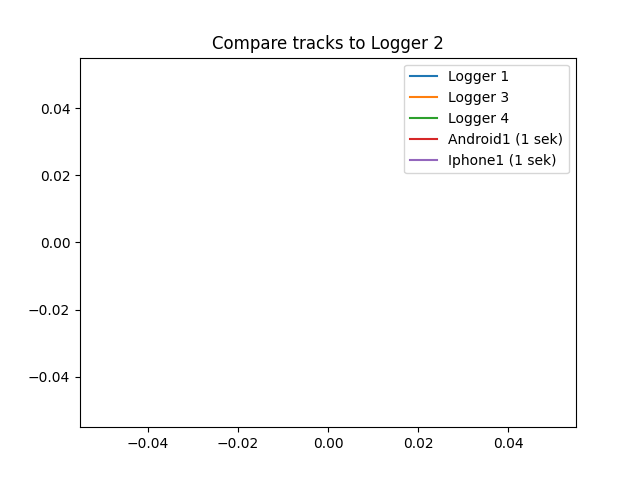
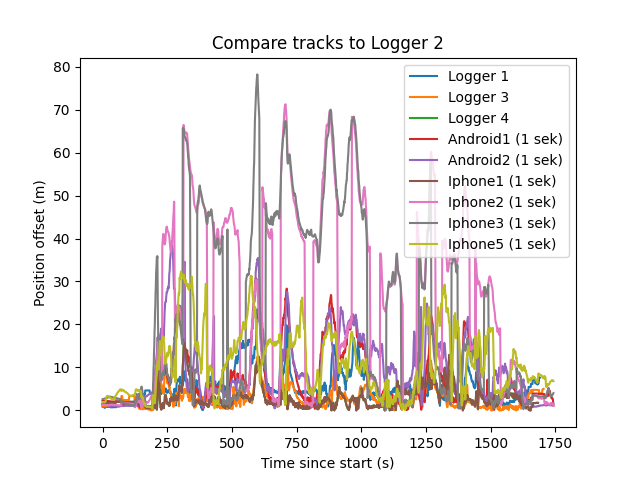
Fix this problem with corridor grace time around corners. Fixes number of decimals in corridor with in flight order.

diff --git a/track_analyser/compare_tracks.py b/track_analyser/compare_tracks.py
@@ -12,30 +12,63 @@ import scipy.stats as st
 def compare_mean_with_confidences(
     truths: List[GPSTrack], tracks: List[GPSTrack], desired_confidence: float, folder: str
 ):
+    compared_to_truth_time={}
     compared_to_truth={}
     for truth_index, truth in enumerate(truths):
         for index, track in enumerate(tracks):
             if truth == track:
                 continue
-            differences = get_track_differences_time(track, truth)
+            differences_time = get_track_differences_time(track, truth)
+            differences = get_track_differences(track, truth)
             try:
+                compared_to_truth_time[track.name].append(differences_time)
                 compared_to_truth[track.name].append(differences)
             except KeyError:
-                compared_to_truth[track.name]=[differences]
+                compared_to_truth_time[track.name]=[differences_time]
+                compared_to_truth[track.name] = [differences]
+    total_confidence_time =np.zeros((2, len(tracks)))
     total_confidence =np.zeros((2, len(tracks)))
+    total_mean_time=[]
     total_mean=[]
     for index, track in enumerate(tracks):
+        differences_time=compared_to_truth_time[track.name]
         differences=compared_to_truth[track.name]
+        total_differences_time=np.concatenate(differences_time)
         total_differences=np.concatenate(differences)
+        confidence_time=st.t.interval(alpha=desired_confidence, df=len(total_differences_time)-1, loc=np.mean(total_differences_time), scale=st.sem(total_differences_time))
         confidence=st.t.interval(alpha=desired_confidence, df=len(total_differences)-1, loc=np.mean(total_differences), scale=st.sem(total_differences))
-        print(confidence)
+        mean_time=np.mean(total_differences_time, axis=0)
         mean=np.mean(total_differences, axis=0)
+        total_mean_time.append(mean_time)
         total_mean.append(mean)
-        total_confidence[:, index]=confidence
+        total_confidence_time[:, index]=confidence_time
+        total_confidence[:, index] = confidence
     fig, ax = plt.subplots()
     plt.title(f"Mean time distance for confidence interval {int(100 * desired_confidence)}%")
     r1 = np.arange(len(tracks))
     plt.ylabel("Time distance (s)")
+    plt.bar(
+        r1,
+        total_mean_time,
+        yerr=total_confidence_time,
+        width=0.5,
+        color="blue",
+        edgecolor="black",
+        capsize=7,
+        label="poacee",
+    )
+    plt.xticks(np.arange(len(tracks)), [item.name for item in tracks], rotation=60)
+    plt.savefig(
+        f"{folder}/mean_confidence_time_bar_{int(100 * desired_confidence)}.png",
+        dpi=100,
+        bbox_inches="tight",
+    )
+    plt.close()
+
+    fig, ax = plt.subplots()
+    plt.title(f"Mean distance for confidence interval {int(100 * desired_confidence)}%")
+    r1 = np.arange(len(tracks))
+    plt.ylabel("Distance (m)")
     plt.bar(
         r1,
         total_mean,
@@ -48,11 +81,12 @@ def compare_mean_with_confidences(
     )
     plt.xticks(np.arange(len(tracks)), [item.name for item in tracks], rotation=60)
     plt.savefig(
-        f"{folder}/mean_confidence_bar_{int(100 * desired_confidence)}.png",
+        f"{folder}/mean_confidence_distance_bar_{int(100 * desired_confidence)}.png",
         dpi=100,
         bbox_inches="tight",
     )
     plt.close()
+
 
 def compare_maximum_confidences(
     truths: List[GPSTrack], tracks: List[GPSTrack], confidence: float, folder: str
@@ -151,6 +185,8 @@ def plot_difference_compared_to_single(
         plt.plot(differences, label=f"{tracks[index1]}")
     plt.title(f"Compare tracks to {truth}")
     ax.legend()
+    plt.ylabel("Position offset (m)")
+    plt.xlabel("Time since start (s)")
     plt.savefig(f"{folder}/track_difference_vs_{truth}.png", dpi=100)
     plt.close()
 

diff --git a/track_analyser/compare_thomlevold_no_bad_phones.py b/track_analyser/compare_thomlevold_no_bad_phones.py
@@ -8,7 +8,7 @@ from track_analyser.compare_tracks import (
 from track_analyser.gps_track import GPSTrack
 from datetime_modulo import datetime
 
-folder = "tracks/thomlevold"
+folder = "tracks/thomlevold_no_bad_phones"
 
 loggers = [
     GPSTrack.load_gpx("Logger 1", f"{folder}/05.gpx"),
@@ -24,8 +24,8 @@ androids = [
 
 iphones = [
     GPSTrack.load_gpx("Iphone1 (1 sek)", f"{folder}/espen.gpx"),
-    GPSTrack.load_gpx("Iphone2 (1 sek)", f"{folder}/andersmagnus.gpx"),
-    GPSTrack.load_gpx("Iphone3 (1 sek)", f"{folder}/hedvig.gpx"),
+    # GPSTrack.load_gpx("Iphone2 (1 sek)", f"{folder}/andersmagnus.gpx"),
+    # GPSTrack.load_gpx("Iphone3 (1 sek)", f"{folder}/hedvig.gpx"),
     # GPSTrack.load_gpx("Iphone4 (5 sek)", f"{folder}/rune.gpx"),
     GPSTrack.load_gpx("Iphone5 (1 sek)", f"{folder}/mikael.gpx"),
 ]
@@ -35,14 +35,14 @@ finish_time = datetime(2022, 6, 4, 15, 0, tzinfo=timezone.utc)
 for tracker in loggers + androids + iphones:
     tracker.clip_track(start_time, finish_time)
 
-compare_mean_with_confidences(loggers, loggers + androids + iphones, 0.95, folder)
+# compare_mean_with_confidences(loggers, loggers + androids + iphones, 0.95, folder)
 # compare_mean_with_confidences(loggers, loggers + androids + iphones, 0.2, folder)
 # compare_mean_with_confidences(androids + iphones, androids + iphones, 0.95, folder)
 # compare_mean_with_confidences(androids + iphones, androids + iphones, 0.2, folder)
 #
 #
 # plot_difference_compared_to_single(loggers[0], loggers + androids + iphones, folder)
-# plot_difference_compared_to_single(loggers[1], loggers + androids + iphones, folder)
+plot_difference_compared_to_single(loggers[1], loggers + androids + iphones, folder)
 # plot_difference_compared_to_single(loggers[2], loggers + androids + iphones, folder)
 # plot_difference_compared_to_single(loggers[3], loggers + androids + iphones, folder)
 #
@@ -52,5 +52,5 @@ compare_mean_with_confidences(loggers, loggers + androids + iphones, 0.95, folde
 #
 # compare_maximum_confidences(loggers, loggers + androids + iphones, 0.99, folder)
 # compare_maximum_confidences(loggers, loggers + androids + iphones, 0.95, folder)
-# compare_maximum_confidences(loggers, loggers + androids + iphones, 0.2, folder)
+compare_maximum_confidences(loggers, loggers + androids + iphones, 0.2, folder)
 # compare_mean_with_confidences(loggers, loggers + androids + iphones, 0.95, folder)

diff --git a/src/display/calculators/anr_corridor_calculator.py b/src/display/calculators/anr_corridor_calculator.py
@@ -130,9 +130,9 @@ class AnrCorridorCalculator(Calculator):
             return
         penalty_gate = previous_gate or gate
         # Reset scoring to start counting again, but this time without grace time since we might be outside
-        outside_time = (position.time - self.crossed_outside_time).total_seconds()
+        # outside_time = (position.time - self.crossed_outside_time).total_seconds()
         # Correct for any remaining grace time if we exited the corridor immediately before the gate
-        self.corridor_grace_time = max(0, self.corridor_grace_time - outside_time)
+        # self.corridor_grace_time = max(0, self.corridor_grace_time - outside_time)
         if position == self.last_gate_missed_position:
             # If we are at the same position as the last missed the gate it means that we are missing several gates
             # in a row. We need to apply maximum penalty for each leg
@@ -194,6 +194,10 @@ class AnrCorridorCalculator(Calculator):
                                   position.latitude, position.longitude,
                                   "information", f"entering_corridor")
                 self.corridor_grace_time = self.scorecard.corridor_grace_time
+            else:
+                # Correct for any remaining grace time if we exited the corridor immediately before the gate
+                self.corridor_grace_time = max(0, self.corridor_grace_time - outside_time)
+
             self.existing_reference = None
             self.accumulated_score = 0
 
@@ -220,4 +224,8 @@ class AnrCorridorCalculator(Calculator):
                 "{} {}: Back inside the corridor".format(self.contestant, position.time))
             self.corridor_state = self.INSIDE_CORRIDOR
             self.check_and_apply_outside_penalty(position, last_gate)
+            self.corridor_grace_time = self.scorecard.corridor_grace_time
+            self.crossed_outside_position = None
+            self.crossed_outside_time = None
+
         self.previous_last_gate = last_gate

diff --git a/src/display/models.py b/src/display/models.py
@@ -1419,7 +1419,7 @@ gives a penalty of {scorecard.backtracking_penalty} points.
 
     def _anr_rule_description(self):
         scorecard = self.navigation_task.scorecard
-        text = f"""For this task the corridor width is {"{:.1f}".format(self.navigation_task.route.corridor_width)} nm. 
+        text = f"""For this task the corridor width is {"{:.2f}".format(self.navigation_task.route.corridor_width)} nm. 
 Flying outside of the corridor more than {scorecard.corridor_grace_time} seconds gives a penalty of 
 {"{:.0f}".format(scorecard.corridor_outside_penalty)} point(s) per second."""
         if scorecard.corridor_maximum_penalty != -1:

diff --git a/src/display/calculators/gatekeeper.py b/src/display/calculators/gatekeeper.py
@@ -169,7 +169,7 @@ class Gatekeeper(ABC):
         device_ids = self.traccar.get_device_ids_for_contestant(self.contestant)
         current_time = datetime.datetime.now(datetime.timezone.utc)
         device_positions = {}
-        if not self.live_processing:
+        if self.live_processing:
             for device_id in device_ids:
                 positions = self.traccar.get_positions_for_device_id(device_id,
                                                                      self.contestant.tracker_start_time,
